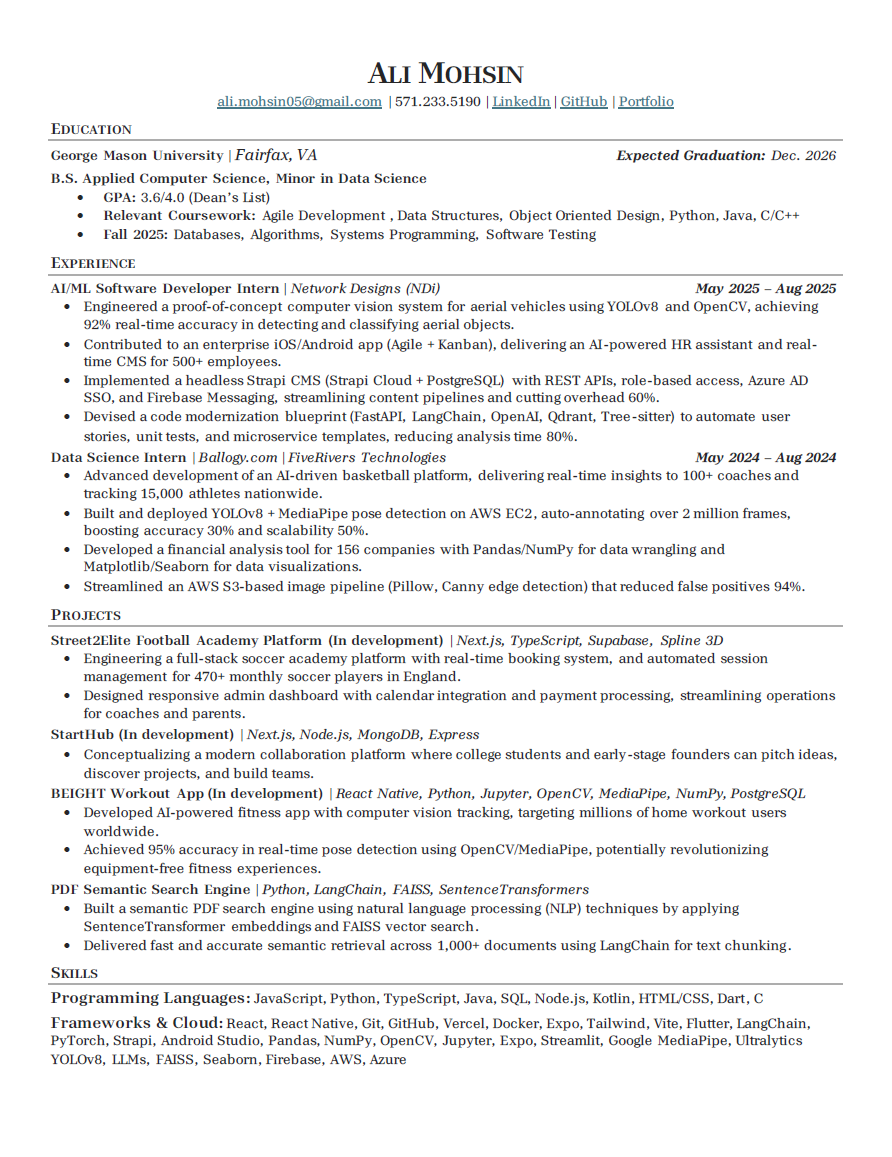
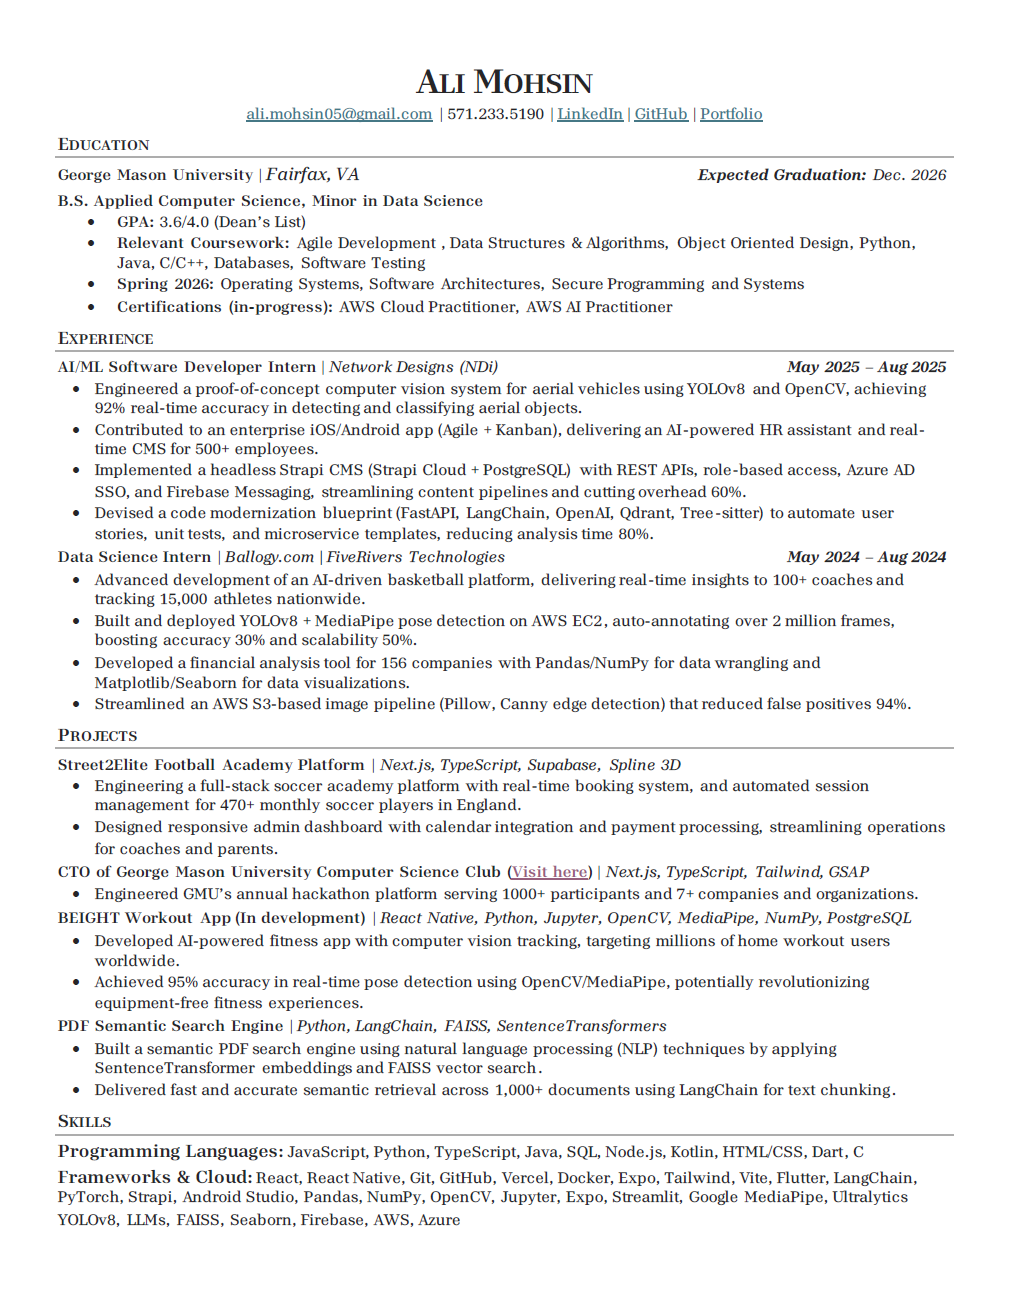
Update experience details in experience.tsx, replacing GMU CS Club with HackFax as Lead Engineer, and enhancing project descriptions. Also, update resume image for improved quality.

Changed region(s): [[0.0605, 0.0933, 0.9383, 0.9646], [0.2422, 0.0311, 0.7567, 0.0933]]

diff --git a/components/experience.tsx b/components/experience.tsx
@@ -2,21 +2,19 @@
 
 import { motion } from "framer-motion"
 import { Card, CardContent } from "@/components/ui/card"
-import Image from "next/image"
 
 const experiences = [
     {
     id: 1,
-    company: "GMU CS Club",
-    position: "Full-Stack Engineer",
-    duration: "July 2025 – Present",
+    company: "HackFax - The GMU CS Club Hackathon",
+    position: "Lead Engineer",
+    duration: "Sep 2025 – Present",
     location: "In-Person",
     type: "Leadership",
-    logo: "/portfolio/images/csclub.jpg",
+    logo: "/portfolio/images/hackfax.jpg",
     description: [
-      "Website",
-      "Social Media Managment",
-      "etc..."
+      "Developed official site for George Mason University's MLH-Backed Hackathon",
+      "Visit here: https://www.hackfaxpatriothacks.org"
     ],
   },
   {
@@ -51,20 +49,6 @@ const experiences = [
        "Deployed Qdrant vector database and Tree-sitter multi-language parsing for automated code analysis",
        "Enabled automated generation of user stories, unit tests, and microservice templates, reducing analysis time by 80%"
      ],
-  },
-  {
-    id: 4,
-    company: "George Mason University",
-    position: "Hackathon Software Developer",
-    duration: "Oct 2024 – Mar 2025",
-    location: "In-Person",
-    type: "Leadership",
-    logo: "/portfolio/images/hackfax.jpg",
-    description: [
-      "Leading a team of 5 to develop and optimize the coding section for a large-scale hackathon",
-      "Leveraging collaborative tools to ensure seamless execution and enhance participant experience",
-      "Managing project timelines and coordinating with multiple stakeholders",
-    ],
   },
   {
     id: 5,
@@ -132,7 +116,7 @@ export default function Experience() {
                   <div className="flex flex-col md:flex-row md:items-start gap-4 mb-4">
                     <div className="flex items-center gap-3 flex-1">
                       <div className="hidden sm:block">
-                        <Image
+                        <img
                           src={exp.logo}
                           alt={`${exp.company} logo`}
                           width={56}
